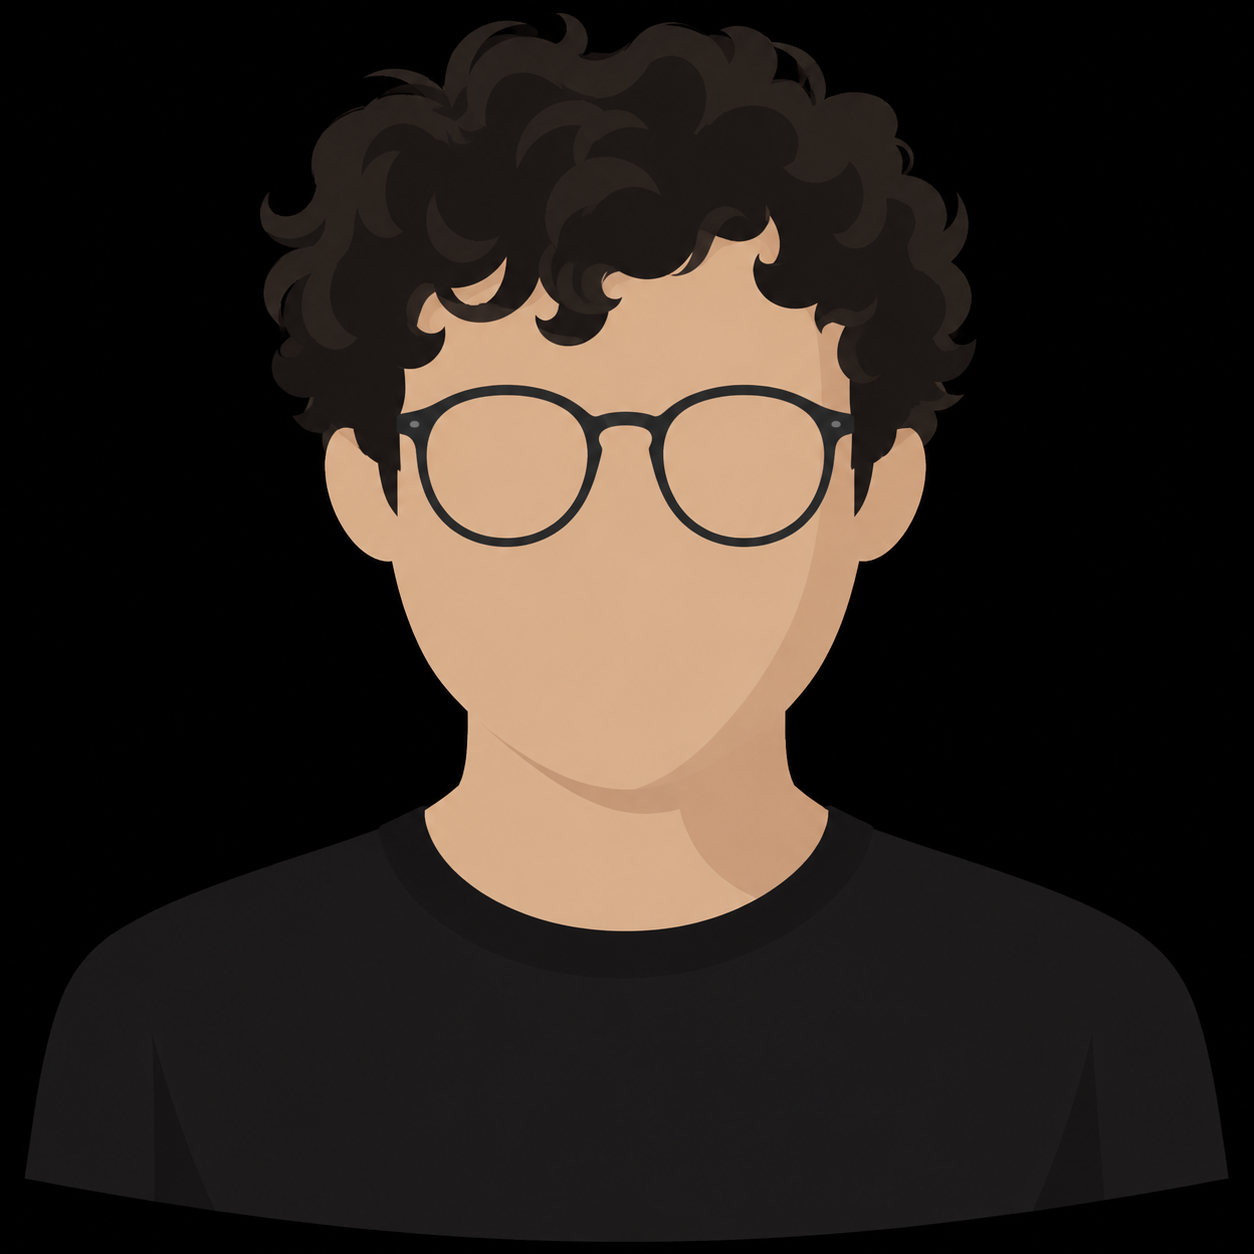
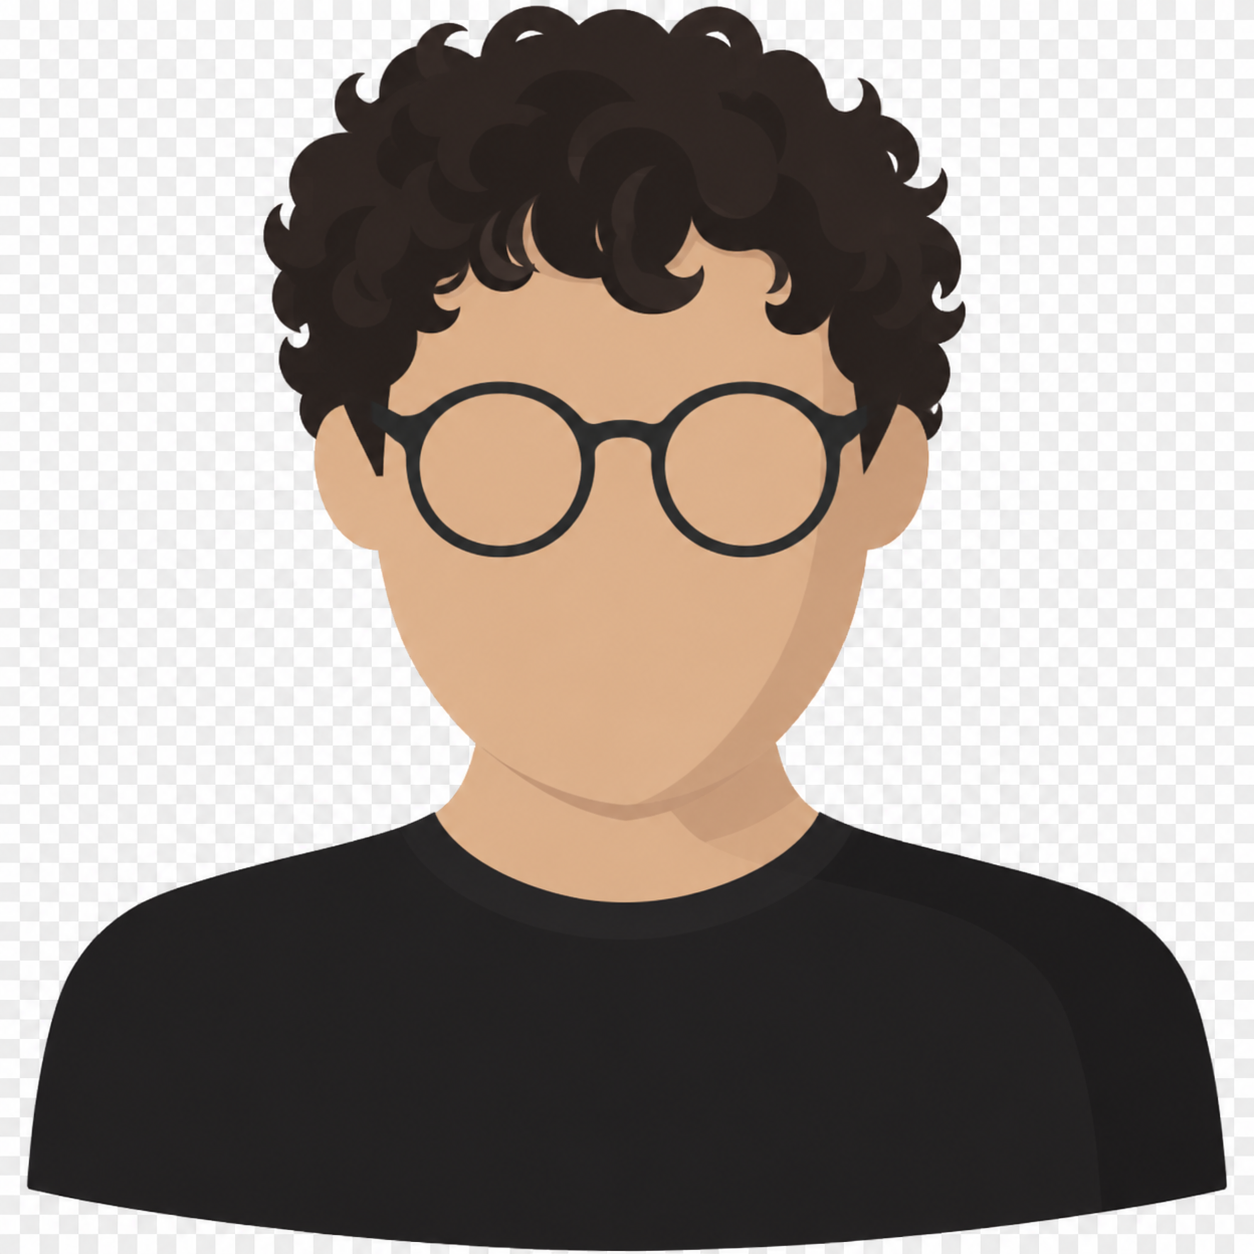
adjust to update

diff --git a/index.html b/index.html
@@ -241,7 +241,7 @@ footer{background:var(--bg-alt);padding:2rem 0;border-top:1px solid var(--line);
         <div class="flip-inner">
           <div class="face front">
             <!-- REPLACE: "Full-stack web apps" icon, 160x160 px, square, transparent PNG or SVG (shown at 96 px) -->
-            <img class="icon" src="https://placehold.co/160x160/050b16/6cb8ff?text=Full+stack" width="160" height="160" alt="" loading="lazy">
+            <img class="icon" src="webdev.png" width="160" height="160" alt="" loading="lazy">
             <h3>Full-stack web apps</h3>
           </div>
           <div class="face back">
@@ -254,7 +254,7 @@ footer{background:var(--bg-alt);padding:2rem 0;border-top:1px solid var(--line);
         <div class="flip-inner">
           <div class="face front">
             <!-- REPLACE: "AI-assisted development" icon, 160x160 px, square, transparent PNG or SVG (shown at 96 px) -->
-            <img class="icon" src="https://placehold.co/160x160/050b16/6cb8ff?text=AI+dev" width="160" height="160" alt="" loading="lazy">
+            <img class="icon" src="aidev.png" width="160" height="160" alt="" loading="lazy">
             <h3>AI-assisted development</h3>
           </div>
           <div class="face back">
@@ -267,7 +267,7 @@ footer{background:var(--bg-alt);padding:2rem 0;border-top:1px solid var(--line);
         <div class="flip-inner">
           <div class="face front">
             <!-- REPLACE: "LLM evaluation" icon, 160x160 px, square, transparent PNG or SVG (shown at 96 px) -->
-            <img class="icon" src="https://placehold.co/160x160/050b16/6cb8ff?text=LLM+eval" width="160" height="160" alt="" loading="lazy">
+            <img class="icon" src="llmeval.png" width="160" height="160" alt="" loading="lazy">
             <h3>LLM evaluation</h3>
           </div>
           <div class="face back">
@@ -280,7 +280,7 @@ footer{background:var(--bg-alt);padding:2rem 0;border-top:1px solid var(--line);
         <div class="flip-inner">
           <div class="face front">
             <!-- REPLACE: "Data and BI" icon, 160x160 px, square, transparent PNG or SVG (shown at 96 px) -->
-            <img class="icon" src="https://placehold.co/160x160/050b16/6cb8ff?text=Data+BI" width="160" height="160" alt="" loading="lazy">
+            <img class="icon" src="dataanalysis.png" width="160" height="160" alt="" loading="lazy">
             <h3>Data and BI</h3>
           </div>
           <div class="face back">
